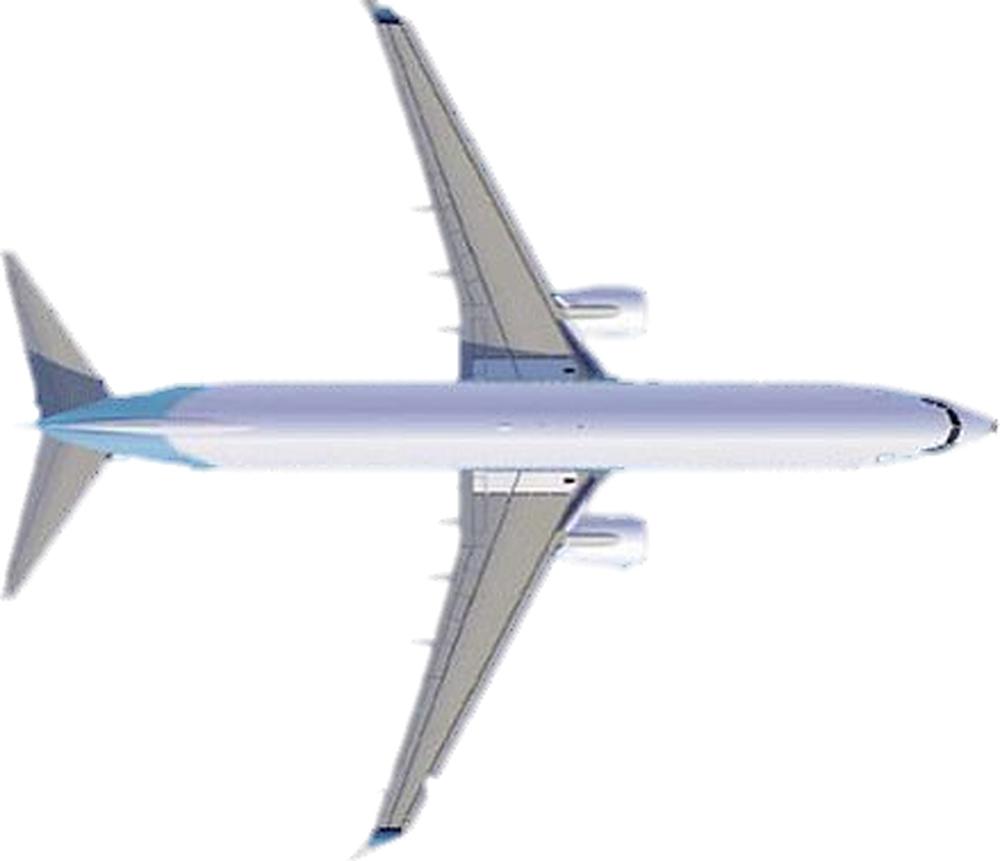
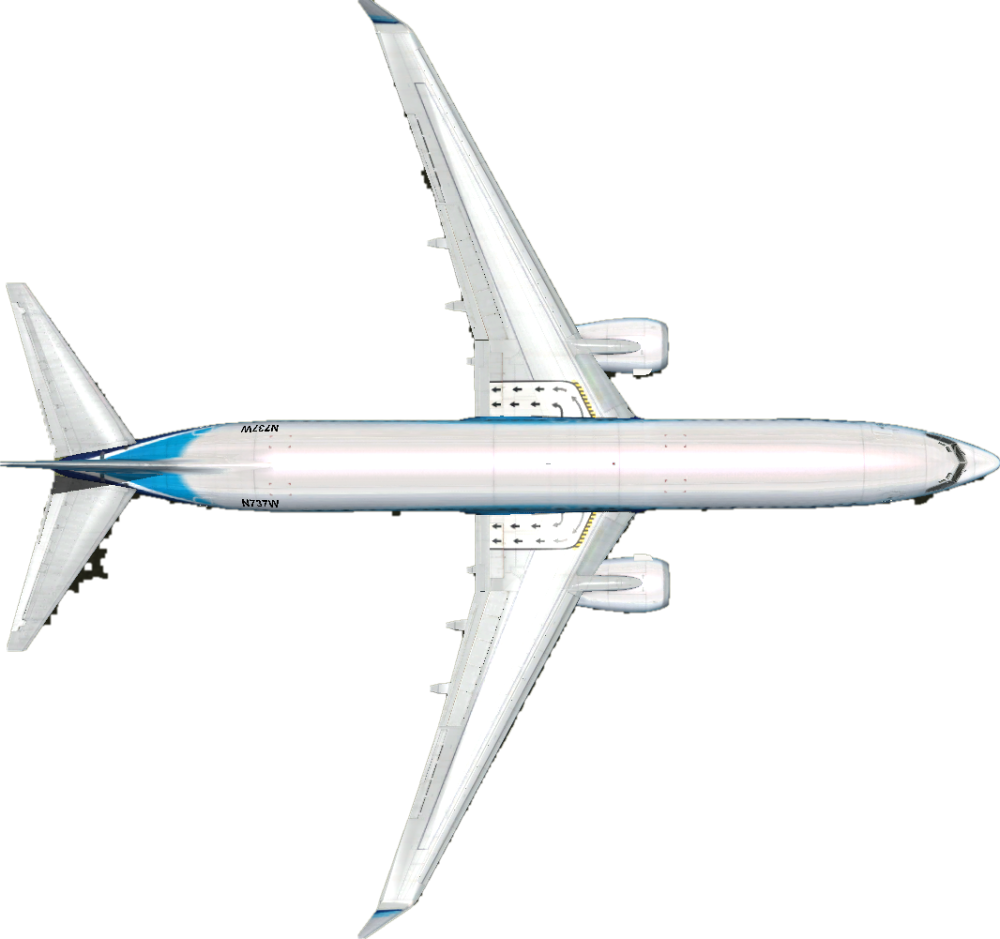
737-800: nova imagem de vista de cima enviada pelo usuário
Claude-Session: https://claude.ai/code/session_01AfRCXEonhhh6YAB8cQkHg9

Changed region(s): [[0.0, 0.0, 1.0, 1.0]]

diff --git a/index.html b/index.html
@@ -948,11 +948,11 @@ function gerarAeroProc(q) {
 const AERO_IMG = {
   a320: { src:'a320-topo.png', halfW:1.6, motor:{ x:2.6, y:5.4 } },
   a321: { src:'a321-topo.png', halfW:2.0, motor:{ x:4.7, y:6.3 } },
-  b738: { src:'b738-topo.png', halfW:1.75, motor:{ x:3.9, y:4.8 } },
+  b738: { src:'b738-topo.png', halfW:1.75, motor:{ x:4.7, y:4.7 } },
   a319: { src:'a320-topo.png', halfW:1.6, motor:{ x:2.6, y:5.4 } },
   a20n: { src:'a320-topo.png', halfW:1.6, motor:{ x:2.6, y:5.4 } },
   a21n: { src:'a321-topo.png', halfW:2.0, motor:{ x:4.7, y:6.3 } },
-  b38m: { src:'b738-topo.png', halfW:1.75, motor:{ x:3.9, y:4.8 } }
+  b38m: { src:'b738-topo.png', halfW:1.75, motor:{ x:4.7, y:4.7 } }
 };
 for (const id in PROC) AERO_IMG[id] = { gen: PROC[id], halfW: PROC[id].fw / 2, motor: PROC[id].motor };
 for (const id in AERO_IMG) {
